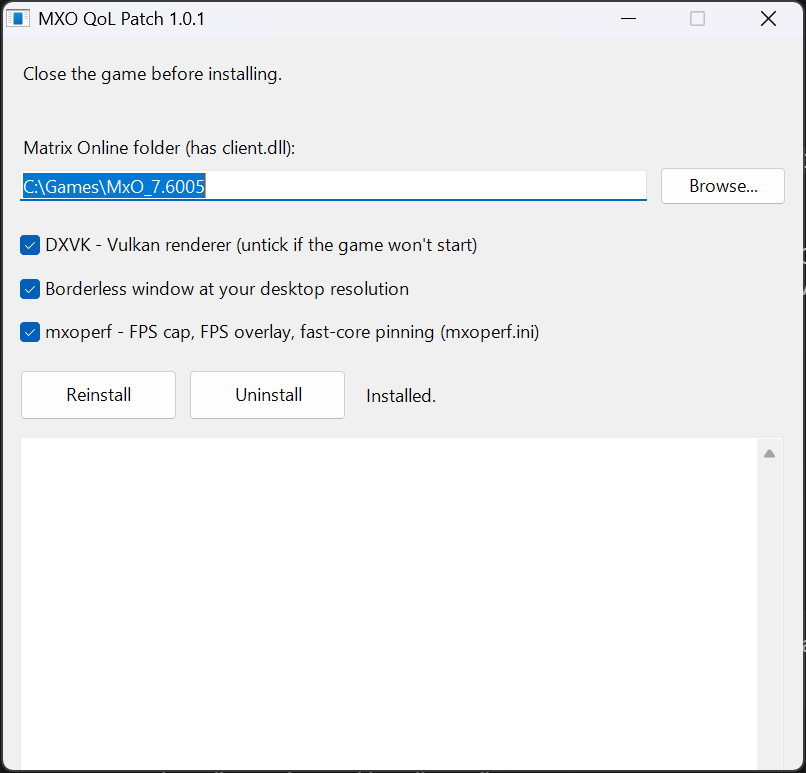
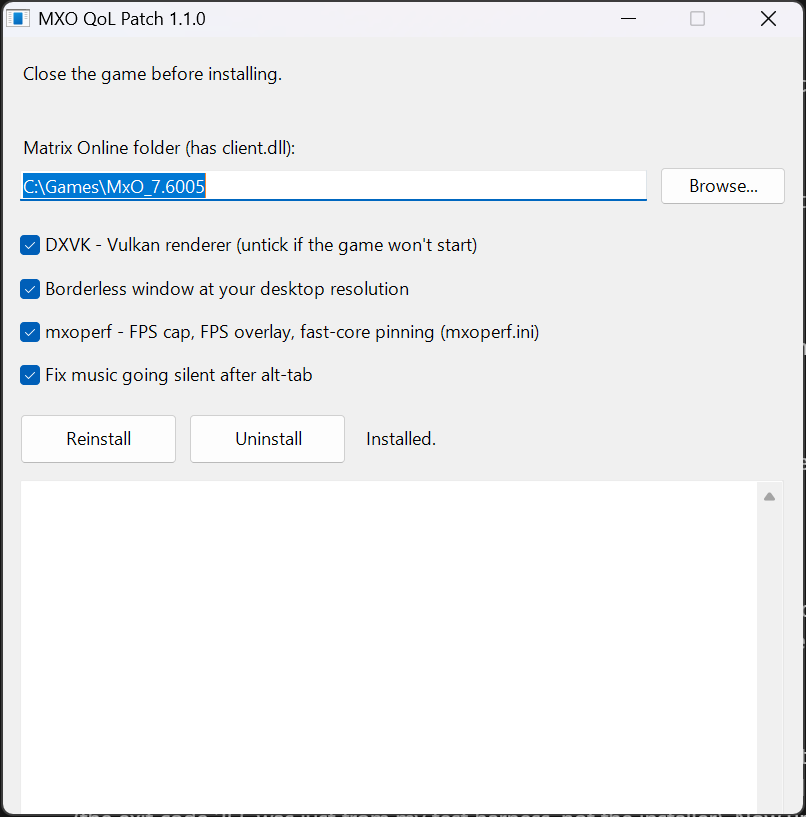
Add the alt-tab music fix as an option (1.1.0)

diff --git a/src/Installer.cs b/src/Installer.cs
@@ -1,5 +1,5 @@
-// MXO QoL Patch installer: borderless window, DXVK, mxoperf and hardware vertex processing for
-// The Matrix Online 7.6005.
+// MXO QoL Patch installer: borderless window, DXVK, mxoperf, hardware vertex processing and the
+// alt-tab music fix for The Matrix Online 7.6005.
 // Build: build.cmd (uses the .NET Framework 4 csc.exe that ships with Windows).
 using System;
 using System.Collections.Generic;
@@ -15,21 +15,22 @@ using Microsoft.Win32;
 
 static class Program
 {
-    public const string Version = "1.0.2";
+    public const string Version = "1.1.0";
 
     [STAThread]
     static int Main(string[] args)
     {
-        // Command line: /install "<MxO folder>" [/nodxvk] [/noborderless] [/noperf]   |   /uninstall "<MxO folder>"
+        // Command line: /install "<MxO folder>" [/nodxvk] [/noborderless] [/noperf] [/nomusic]   |   /uninstall "<MxO folder>"
         if (args.Length >= 2 && (Is(args[0], "/install") || Is(args[0], "/uninstall")))
         {
             Native.AttachConsole(-1);
-            var opt = new Options { Dxvk = true, Borderless = true, Perf = true };
+            var opt = new Options { Dxvk = true, Borderless = true, Perf = true, Music = true };
             for (int i = 2; i < args.Length; i++)
             {
                 if (Is(args[i], "/nodxvk")) opt.Dxvk = false;
                 if (Is(args[i], "/noborderless")) opt.Borderless = false;
                 if (Is(args[i], "/noperf")) opt.Perf = false;
+                if (Is(args[i], "/nomusic")) opt.Music = false;
             }
             var p = new Patcher(args[1], Console.WriteLine);
             bool ok = Is(args[0], "/install") ? p.Install(opt) : p.Uninstall();
@@ -43,7 +44,7 @@ static class Program
     static bool Is(string a, string b) { return string.Equals(a, b, StringComparison.OrdinalIgnoreCase); }
 }
 
-class Options { public bool Dxvk, Borderless, Perf; }
+class Options { public bool Dxvk, Borderless, Perf, Music; }
 
 class Patcher
 {
@@ -80,6 +81,7 @@ class Patcher
             Directory.CreateDirectory(backup);
 
             if (!PatchClient()) return false;
+            if (!PatchMusic(opt.Music)) return false;
 
             var files = new List<string>();
             // r3dx.dll: the player's own r3d9.dll, importing dxv9.dll (DXVK) instead of d3d9.dll.
@@ -158,6 +160,45 @@ class Patcher
         File.WriteAllBytes(client, buf);
         log("  client.dll patched (borderless, DXVK loader, mxoperf hook, hardware vertex processing).");
         return true;
+    }
+
+    // Alt-tab music fix: restoring the game from a minimised fullscreen window runs the music "pause"
+    // twice, and the second run saves the already-zero volume over the real one. The fixed pause only
+    // saves the volume when it is not zero. Found by pattern (the pause plus the resume that follows it).
[2 lines of base64/hex data omitted]
+    const string MusicResume = "8A411584C074098B51648B0152FF5048C3";
+
+    bool PatchMusic(bool on)
+    {
+        byte[] orig = Hex(MusicOriginal), fix = Hex(MusicFixed);
+        byte[] tail = Hex(MusicResume);
+        byte[] buf = File.ReadAllBytes(client);
+        int atOrig = FindOnce(buf, Concat(orig, tail)), atFix = FindOnce(buf, Concat(fix, tail));
+        if (on)
+        {
+            if (atFix >= 0) { log("  Music fix already in client.dll."); return true; }
+            if (atOrig < 0) return Fail("Couldn't find the music code in client.dll (unknown build). Untick the music fix and try again.");
+            Buffer.BlockCopy(fix, 0, buf, atOrig, fix.Length);
+            File.WriteAllBytes(client, buf);
+            log("  Music fix on (music no longer goes silent after alt-tab).");
+        }
+        else if (atFix >= 0)
+        {
+            Buffer.BlockCopy(orig, 0, buf, atFix, orig.Length);
+            File.WriteAllBytes(client, buf);
+            log("  Music fix off.");
+        }
+        else log("  Music fix off.");
+        return true;
+    }
+
+    static byte[] Concat(byte[] a, byte[] b)
+    {
+        var r = new byte[a.Length + b.Length];
+        Buffer.BlockCopy(a, 0, r, 0, a.Length);
+        Buffer.BlockCopy(b, 0, r, a.Length, b.Length);
+        return r;
     }
 
     // ------------------------------------------------------------------ uninstall
@@ -274,7 +315,7 @@ static class Native
 class MainForm : Form
 {
     readonly TextBox folder = new TextBox();
-    readonly CheckBox dxvk = new CheckBox(), borderless = new CheckBox(), perf = new CheckBox();
+    readonly CheckBox dxvk = new CheckBox(), borderless = new CheckBox(), perf = new CheckBox(), music = new CheckBox();
     readonly Button install = new Button(), uninstall = new Button();
     readonly TextBox logBox = new TextBox();
     readonly Label status = new Label();
@@ -286,7 +327,7 @@ class MainForm : Form
         AutoScaleDimensions = new SizeF(7f, 15f);
         AutoScaleMode = AutoScaleMode.Font;
         Text = "MXO QoL Patch " + Program.Version;
-        ClientSize = new Size(560, 440);
+        ClientSize = new Size(560, 466);
         FormBorderStyle = FormBorderStyle.FixedSingle;
         MaximizeBox = false;
         StartPosition = FormStartPosition.CenterScreen;
@@ -313,23 +354,24 @@ class MainForm : Form
         dxvk.Text = "DXVK - Vulkan renderer (untick if the game won't start)";
         borderless.Text = "Borderless window at your desktop resolution";
         perf.Text = "mxoperf - FPS cap, FPS overlay, fast-core pinning (mxoperf.ini)";
+        music.Text = "Fix music going silent after alt-tab";
         int y = 116;
-        foreach (var c in new[] { dxvk, borderless, perf })
+        foreach (var c in new[] { dxvk, borderless, perf, music })
         {
             c.Checked = true; c.AutoSize = true; c.Location = new Point(12, y); y += 26;
         }
 
-        install.Text = "Install"; install.Location = new Point(12, 200); install.Size = new Size(110, 30);
-        uninstall.Text = "Uninstall"; uninstall.Location = new Point(130, 200); uninstall.Size = new Size(110, 30);
+        install.Text = "Install"; install.Location = new Point(12, 226); install.Size = new Size(110, 30);
+        uninstall.Text = "Uninstall"; uninstall.Location = new Point(130, 226); uninstall.Size = new Size(110, 30);
         install.Click += delegate { Run(true); };
         uninstall.Click += delegate { Run(false); };
-        status.Location = new Point(252, 207); status.AutoSize = true;
+        status.Location = new Point(252, 233); status.AutoSize = true;
 
         logBox.Multiline = true; logBox.ReadOnly = true; logBox.ScrollBars = ScrollBars.Vertical;
-        logBox.Location = new Point(12, 240); logBox.Size = new Size(536, 188);
+        logBox.Location = new Point(12, 266); logBox.Size = new Size(536, 188);
         logBox.BackColor = SystemColors.Window;
 
-        Controls.AddRange(new Control[] { intro, folderLabel, folder, browse, dxvk, borderless, perf, install, uninstall, status, logBox });
+        Controls.AddRange(new Control[] { intro, folderLabel, folder, browse, dxvk, borderless, perf, music, install, uninstall, status, logBox });
         ResumeLayout(false);
         PerformLayout();
         folder.Text = DetectFolder();
@@ -351,7 +393,7 @@ class MainForm : Form
         logBox.Clear();
         var p = new Patcher(folder.Text, delegate(string s) { logBox.AppendText(s + Environment.NewLine); });
         Cursor = Cursors.WaitCursor;
-        if (doInstall) p.Install(new Options { Dxvk = dxvk.Checked, Borderless = borderless.Checked, Perf = perf.Checked });
+        if (doInstall) p.Install(new Options { Dxvk = dxvk.Checked, Borderless = borderless.Checked, Perf = perf.Checked, Music = music.Checked });
         else p.Uninstall();
         Cursor = Cursors.Default;
         Refresh();

diff --git a/README.md b/README.md
@@ -6,6 +6,7 @@ Quality-of-life fixes for **The Matrix Online 7.6005** (e.g. on [Rejacked](https
 - **DXVK** (Vulkan) renderer, smoother on modern GPUs
 - **mxoperf**: FPS cap (focused and background), FPS overlay (Ctrl+Alt+O), frame-time capture (Ctrl+Alt+P), render thread pinned to the fast cores (Intel hybrid / AMD X3D)
 - **Hardware vertex processing**: the game no longer switches to software vertex processing
+- **Alt-tab music fix**: music no longer stays silent after alt-tabbing out of fullscreen and back
 
 ![Installer](docs/installer.png)
 
@@ -20,13 +21,13 @@ Character select still switches to an 800x600 window, as in the stock game.
 
 Run it again any time to change the options. **Uninstall** puts back the original `client.dll`, deletes every file it added and removes its lines from `autoexec.cfg`.
 
-Command line: `MXO_QoL_Installer.exe /install "C:\Games\MxO_7.6005" [/nodxvk] [/noborderless] [/noperf]` or `/uninstall "<folder>"`.
+Command line: `MXO_QoL_Installer.exe /install "C:\Games\MxO_7.6005" [/nodxvk] [/noborderless] [/noperf] [/nomusic]` or `/uninstall "<folder>"`.
 
 ## What it changes
 
 | File | Change |
 |---|---|
-| `client.dll` | Backed up to `QoL_backup\client.dll`, then 14 small code changes (see below). The installer checks every original byte first and changes nothing if your `client.dll` is a different build. |
+| `client.dll` | Backed up to `QoL_backup\client.dll`, then a few small code changes (see below). The installer checks every original byte first and changes nothing if your `client.dll` is a different build. |
 | `r3dx.dll` | Made from **your own** `r3d9.dll` with its `d3d9.dll` import renamed to `dxv9.dll`, so the game can load DXVK from its folder. If DXVK is off it is an unmodified copy. |
 | `dxv9.dll`, `dxvk.conf`, `DXVK_LICENSE.txt` | DXVK 3.1.1 (32-bit `d3d9.dll`). Only when DXVK is on. |
 | `mxoperf.dll`, `mxoperf.ini` | Only when mxoperf is on. Your existing `mxoperf.ini` is kept. |
@@ -38,6 +39,7 @@ The `client.dll` changes:
 - **Renderer:** loads `r3dx.dll` instead of `r3d9.dll`.
 - **mxoperf hook:** loads `mxoperf.dll` if it's there and calls it once per frame before Present.
 - **Hardware vertex processing:** `SetSoftwareVertexProcessing` is always `FALSE`.
+- **Music fix:** coming back from a minimised fullscreen window ran the music pause twice, and the second run saved the already-zero volume over the real one. The pause function (48 bytes, found by byte pattern) now only saves the volume when it is not zero.
 - **Relocations:** the game DLL loads at a different address each time, so the 17 address fix-ups the new code needs are added to its relocation table and the 3 under the overwritten instructions are disabled.
 
 ## Building
